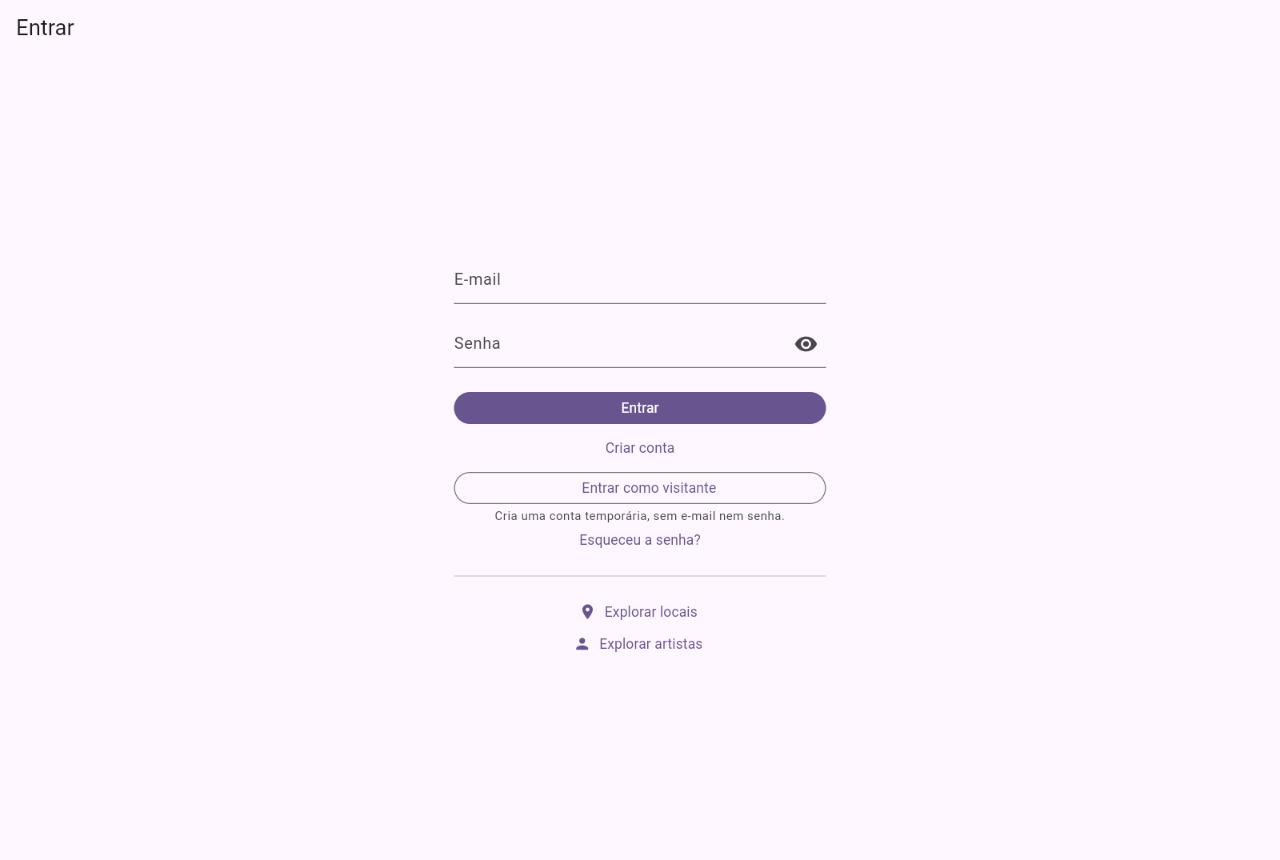
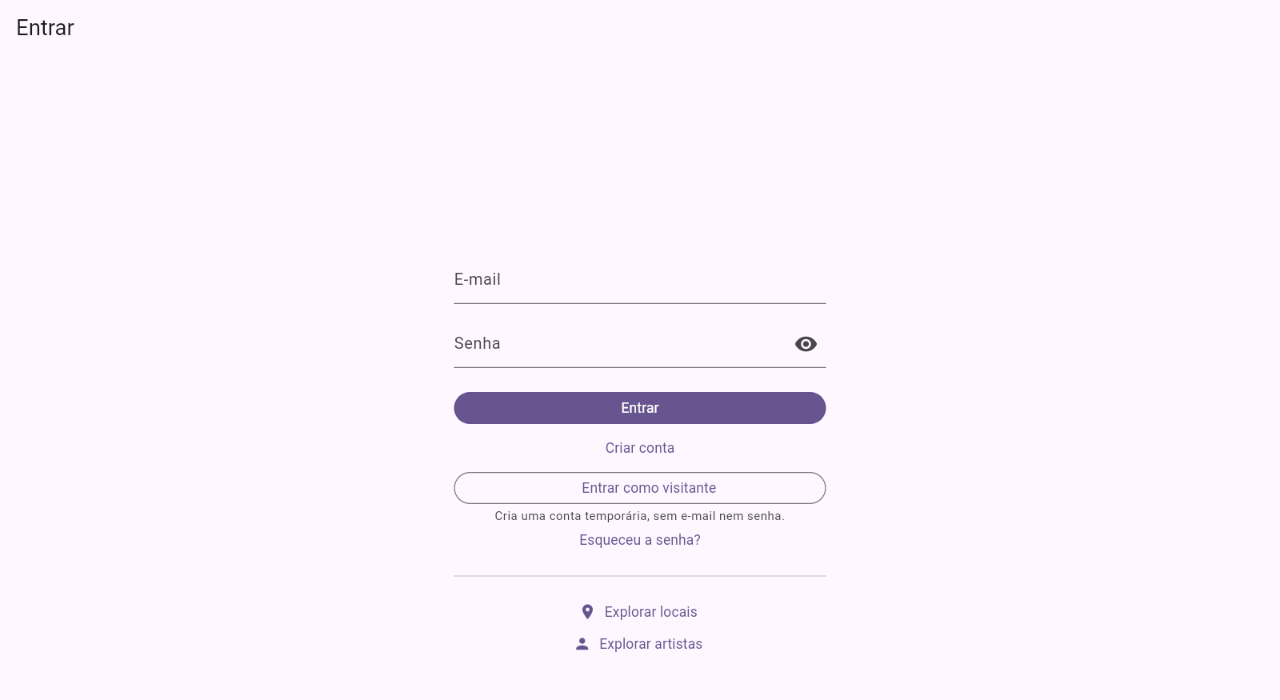
Trim the sign-in capture to its form and match the README width
The reshoot made entrar.png a full 1280x860 frame, most of which is the page
margin either side of a centred form. Cropping to the app bar plus the form keeps
what the caption describes, and the README no longer has to render it at 620px to
stop it dominating the page: it is the same 760px as every other capture.

diff --git a/README.md b/README.md
@@ -88,7 +88,7 @@ O binário do PocketBase não está no repositório. Qualquer build 0.38.2 funci
 ### Entrar
 
 <p align="center">
-  <img src="docs/img/entrar.png" alt="Tela de entrada, com e-mail, senha, entrar como visitante e as listas públicas" width="620">
+  <img src="docs/img/entrar.png" alt="Tela de entrada, com e-mail, senha, entrar como visitante e as listas públicas" width="760">
 </p>
 
 E-mail e senha, ou criar conta. "Esqueceu a senha?" envia um link por e-mail. Isso
